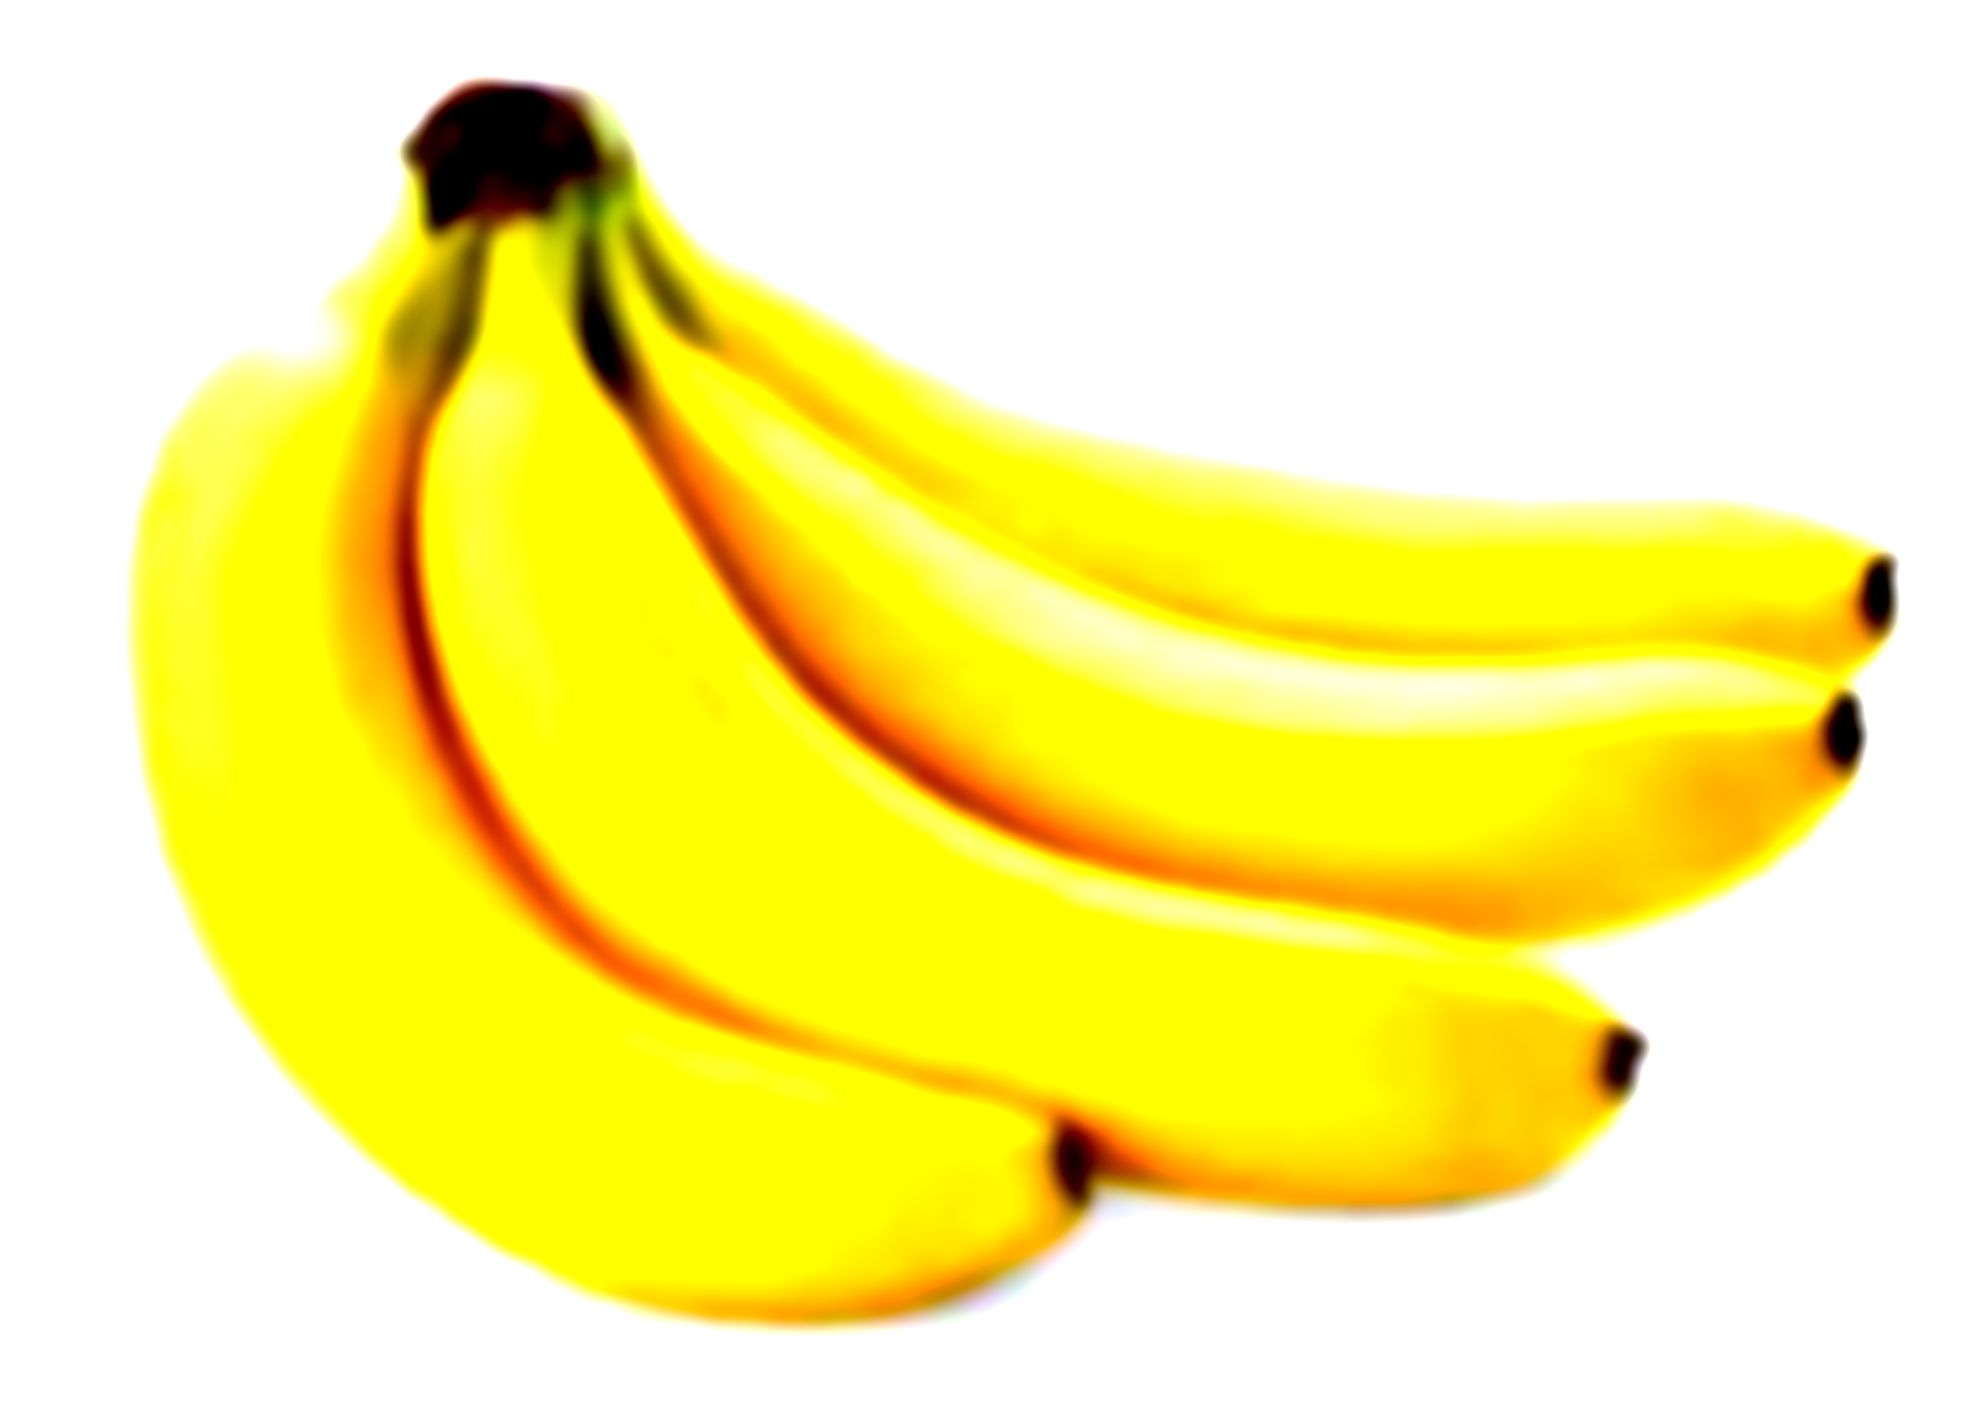
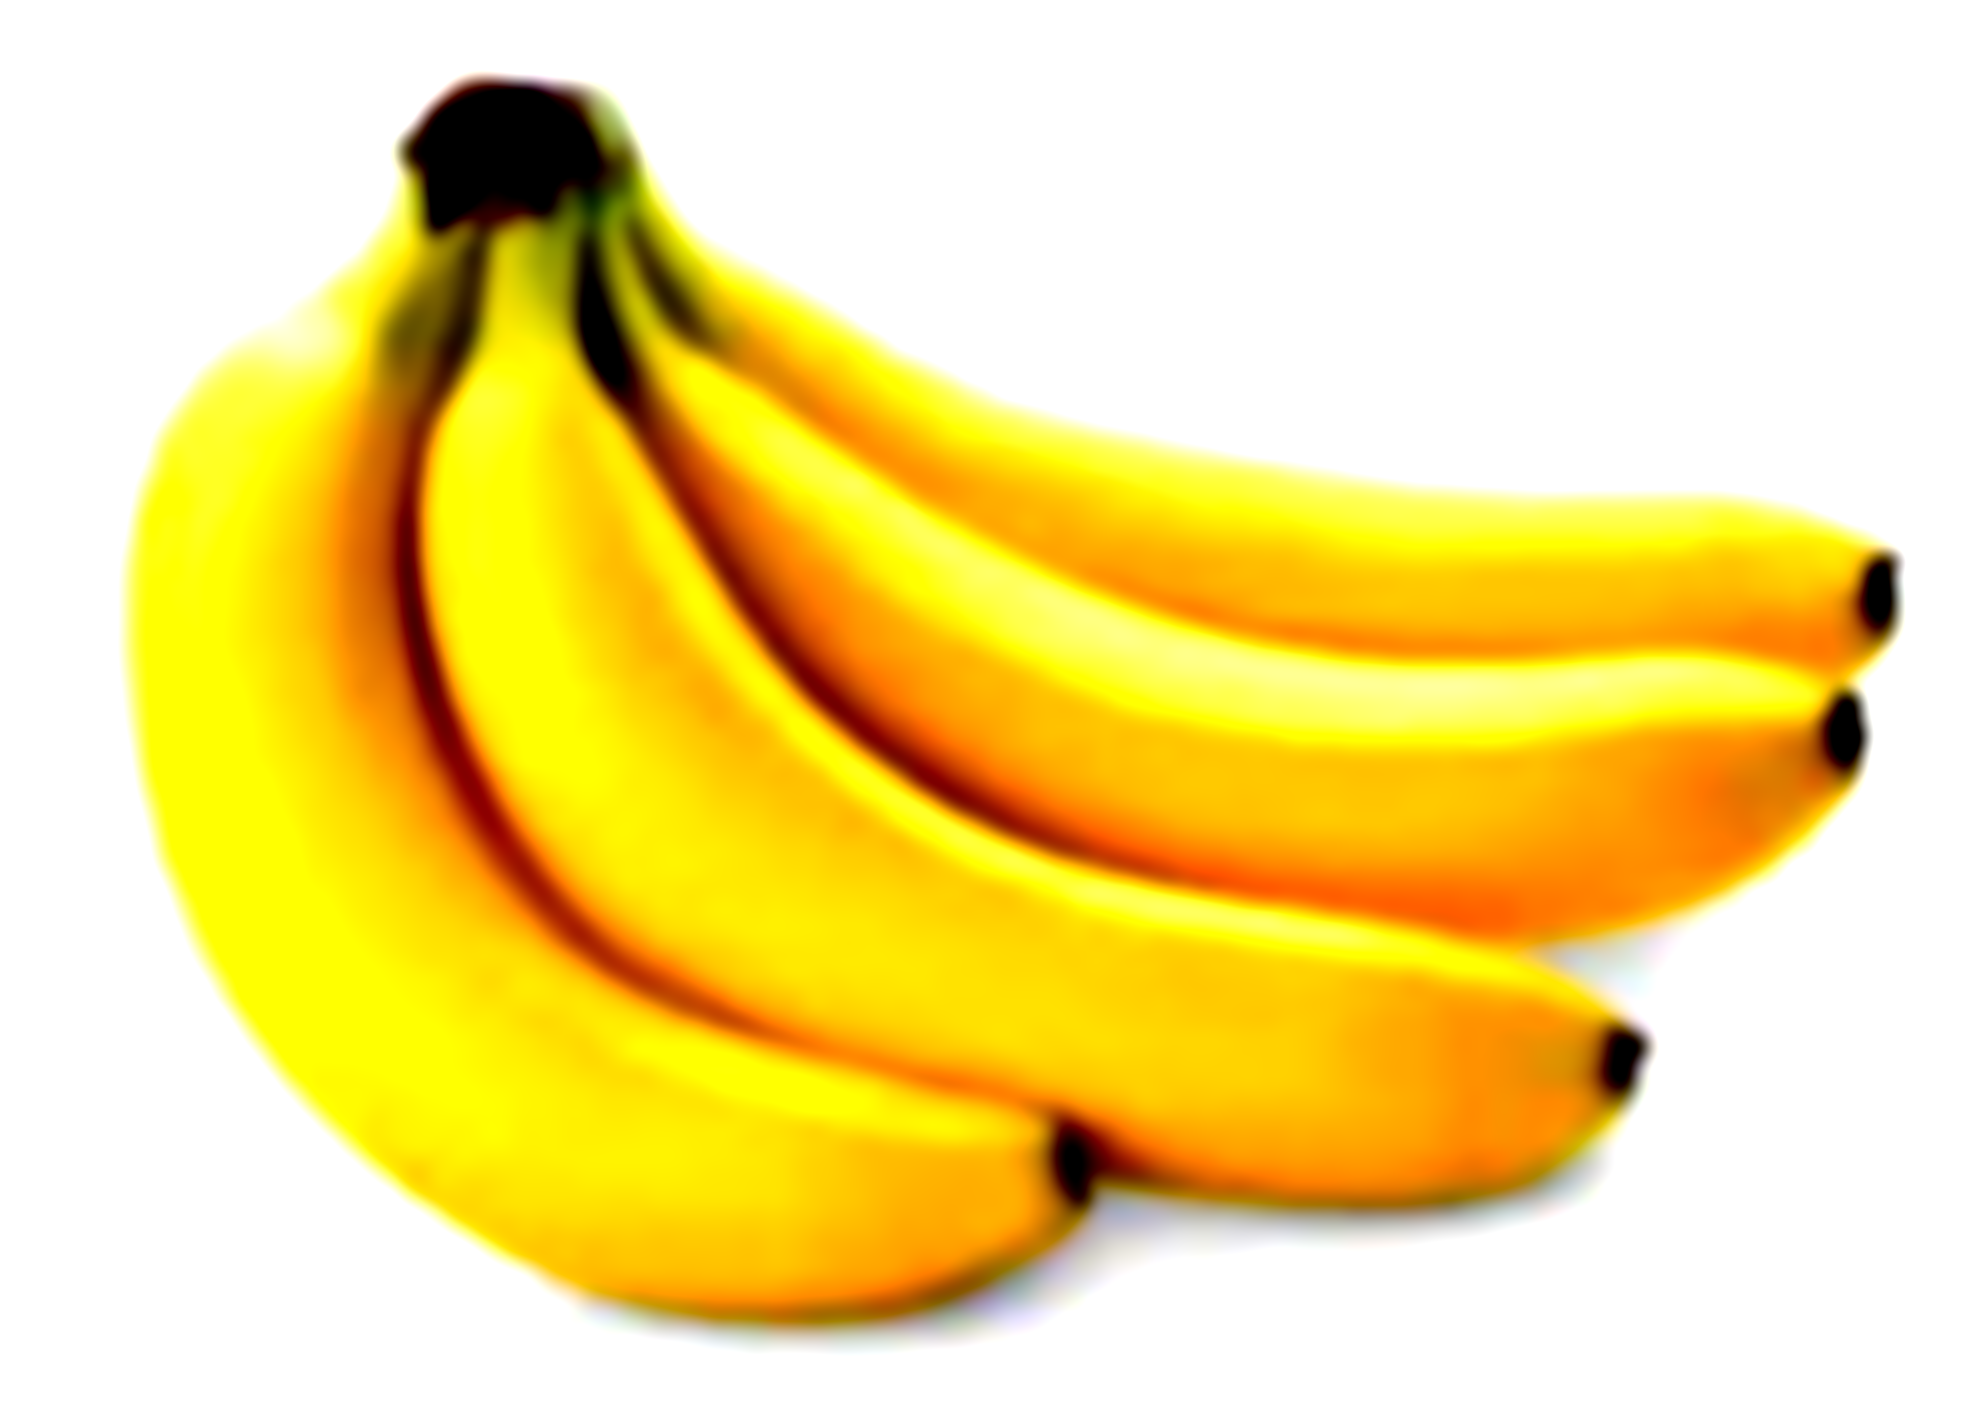
added beta parameter

diff --git a/scripts/photo-smoothed-upscale.py b/scripts/photo-smoothed-upscale.py
@@ -8,6 +8,7 @@ import skimage.exposure
 
 img_file = sys.argv[1]
 alpha = int(sys.argv[2])
+beta = int(sys.argv[3])
 
 a_offset = 2
 
@@ -46,19 +47,19 @@ for row in range(x):
 diffs = np.empty((x*alpha, y*alpha,3))
 
 for col in range(y*alpha):
-    diff = upscaled_x[:,col+alpha,:] - upscaled_x[:,col,:] if col+alpha < y*alpha else np.zeros((upscaled_x.shape[0],upscaled_x.shape[2]))
-    for a in range(min(alpha,y*alpha - col-1)):
-        if a < alpha:
+    diff = upscaled_x[:,col+beta,:] - upscaled_x[:,col,:] if col+beta < y*alpha else np.zeros((upscaled_x.shape[0],upscaled_x.shape[2]))
+    for b in range(min(beta,y*alpha - col-1)):
+        if b < beta:
             # print(diff.shape)
             # upscaled_x[:,col*alpha+a,:]
-            diffs[:,col+a,:] += upscaled_x[:,col+a,:] + diff*(a/alpha)#*abs((a/alpha) - 0.5)
+            diffs[:,col+b,:] += upscaled_x[:,col+b,:] + diff*(b/beta)#*abs((a/alpha) - 0.5)
 
 for row in range(x*alpha):
-    diff = upscaled_x[row+alpha,:,:] - upscaled_x[row,:,:]  if row+alpha < x*alpha else np.zeros((upscaled_x.shape[1],upscaled_x.shape[2]))
-    for a in range(min(alpha,x*alpha - row-1)):
-        if a < alpha:
+    diff = upscaled_x[row+beta,:,:] - upscaled_x[row,:,:]  if row+beta < x*alpha else np.zeros((upscaled_x.shape[1],upscaled_x.shape[2]))
+    for b in range(min(beta,x*alpha - row-1)):
+        if b < beta:
             #upscaled_x
-            diffs[row+a,:,:] += upscaled_x[row+a,:,:] + diff*(a/alpha)#*abs((a/alpha) - 0.5)
+            diffs[row+b,:,:] += upscaled_x[row+b,:,:] + diff*(b/beta)#*abs((a/alpha) - 0.5)
 
 diffs = diffs/2
 
